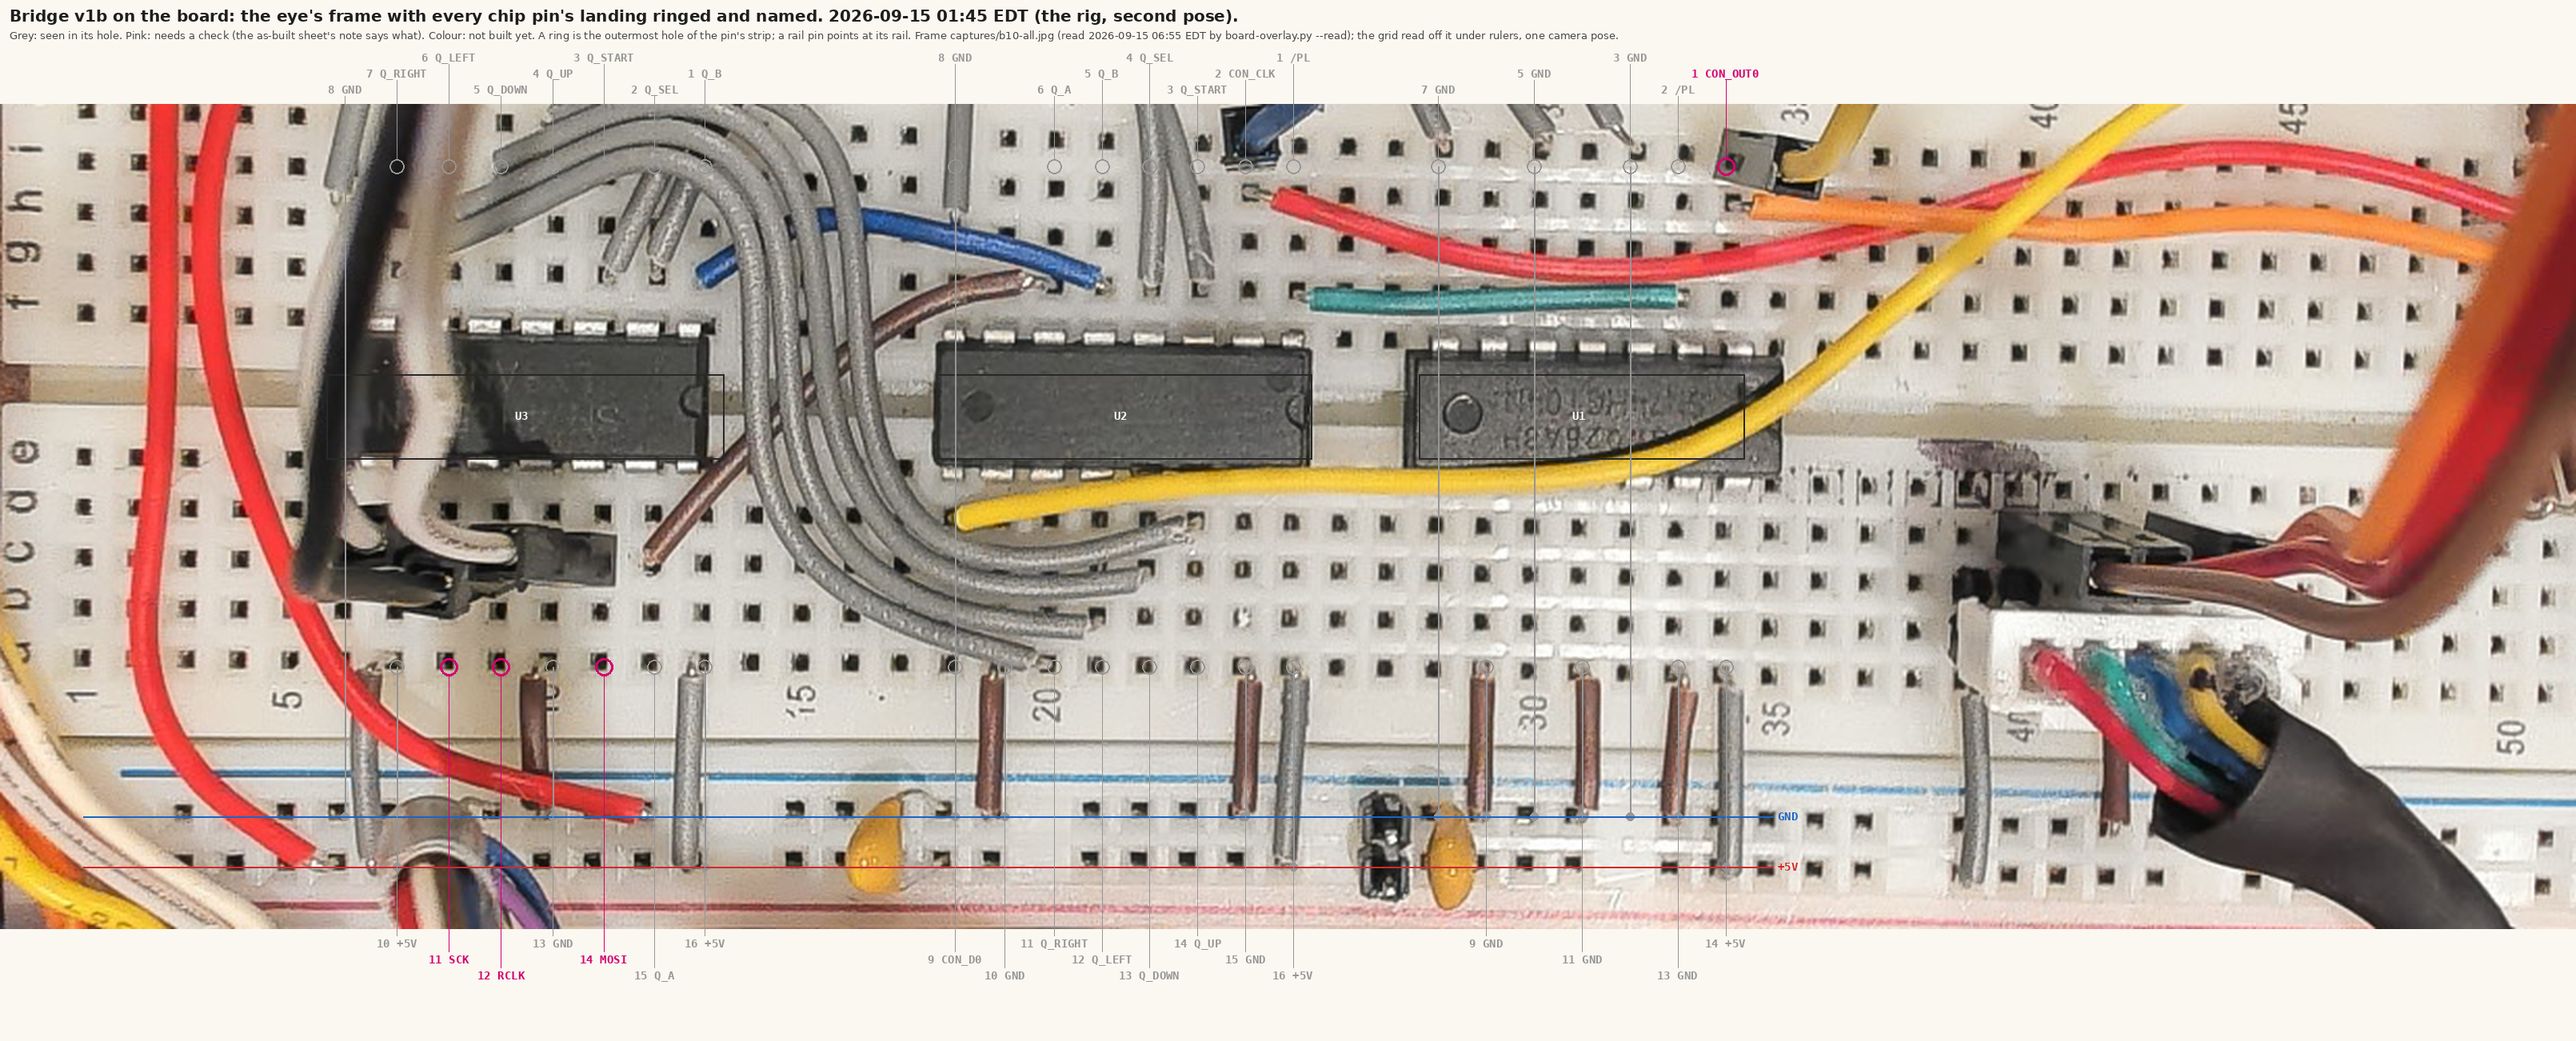
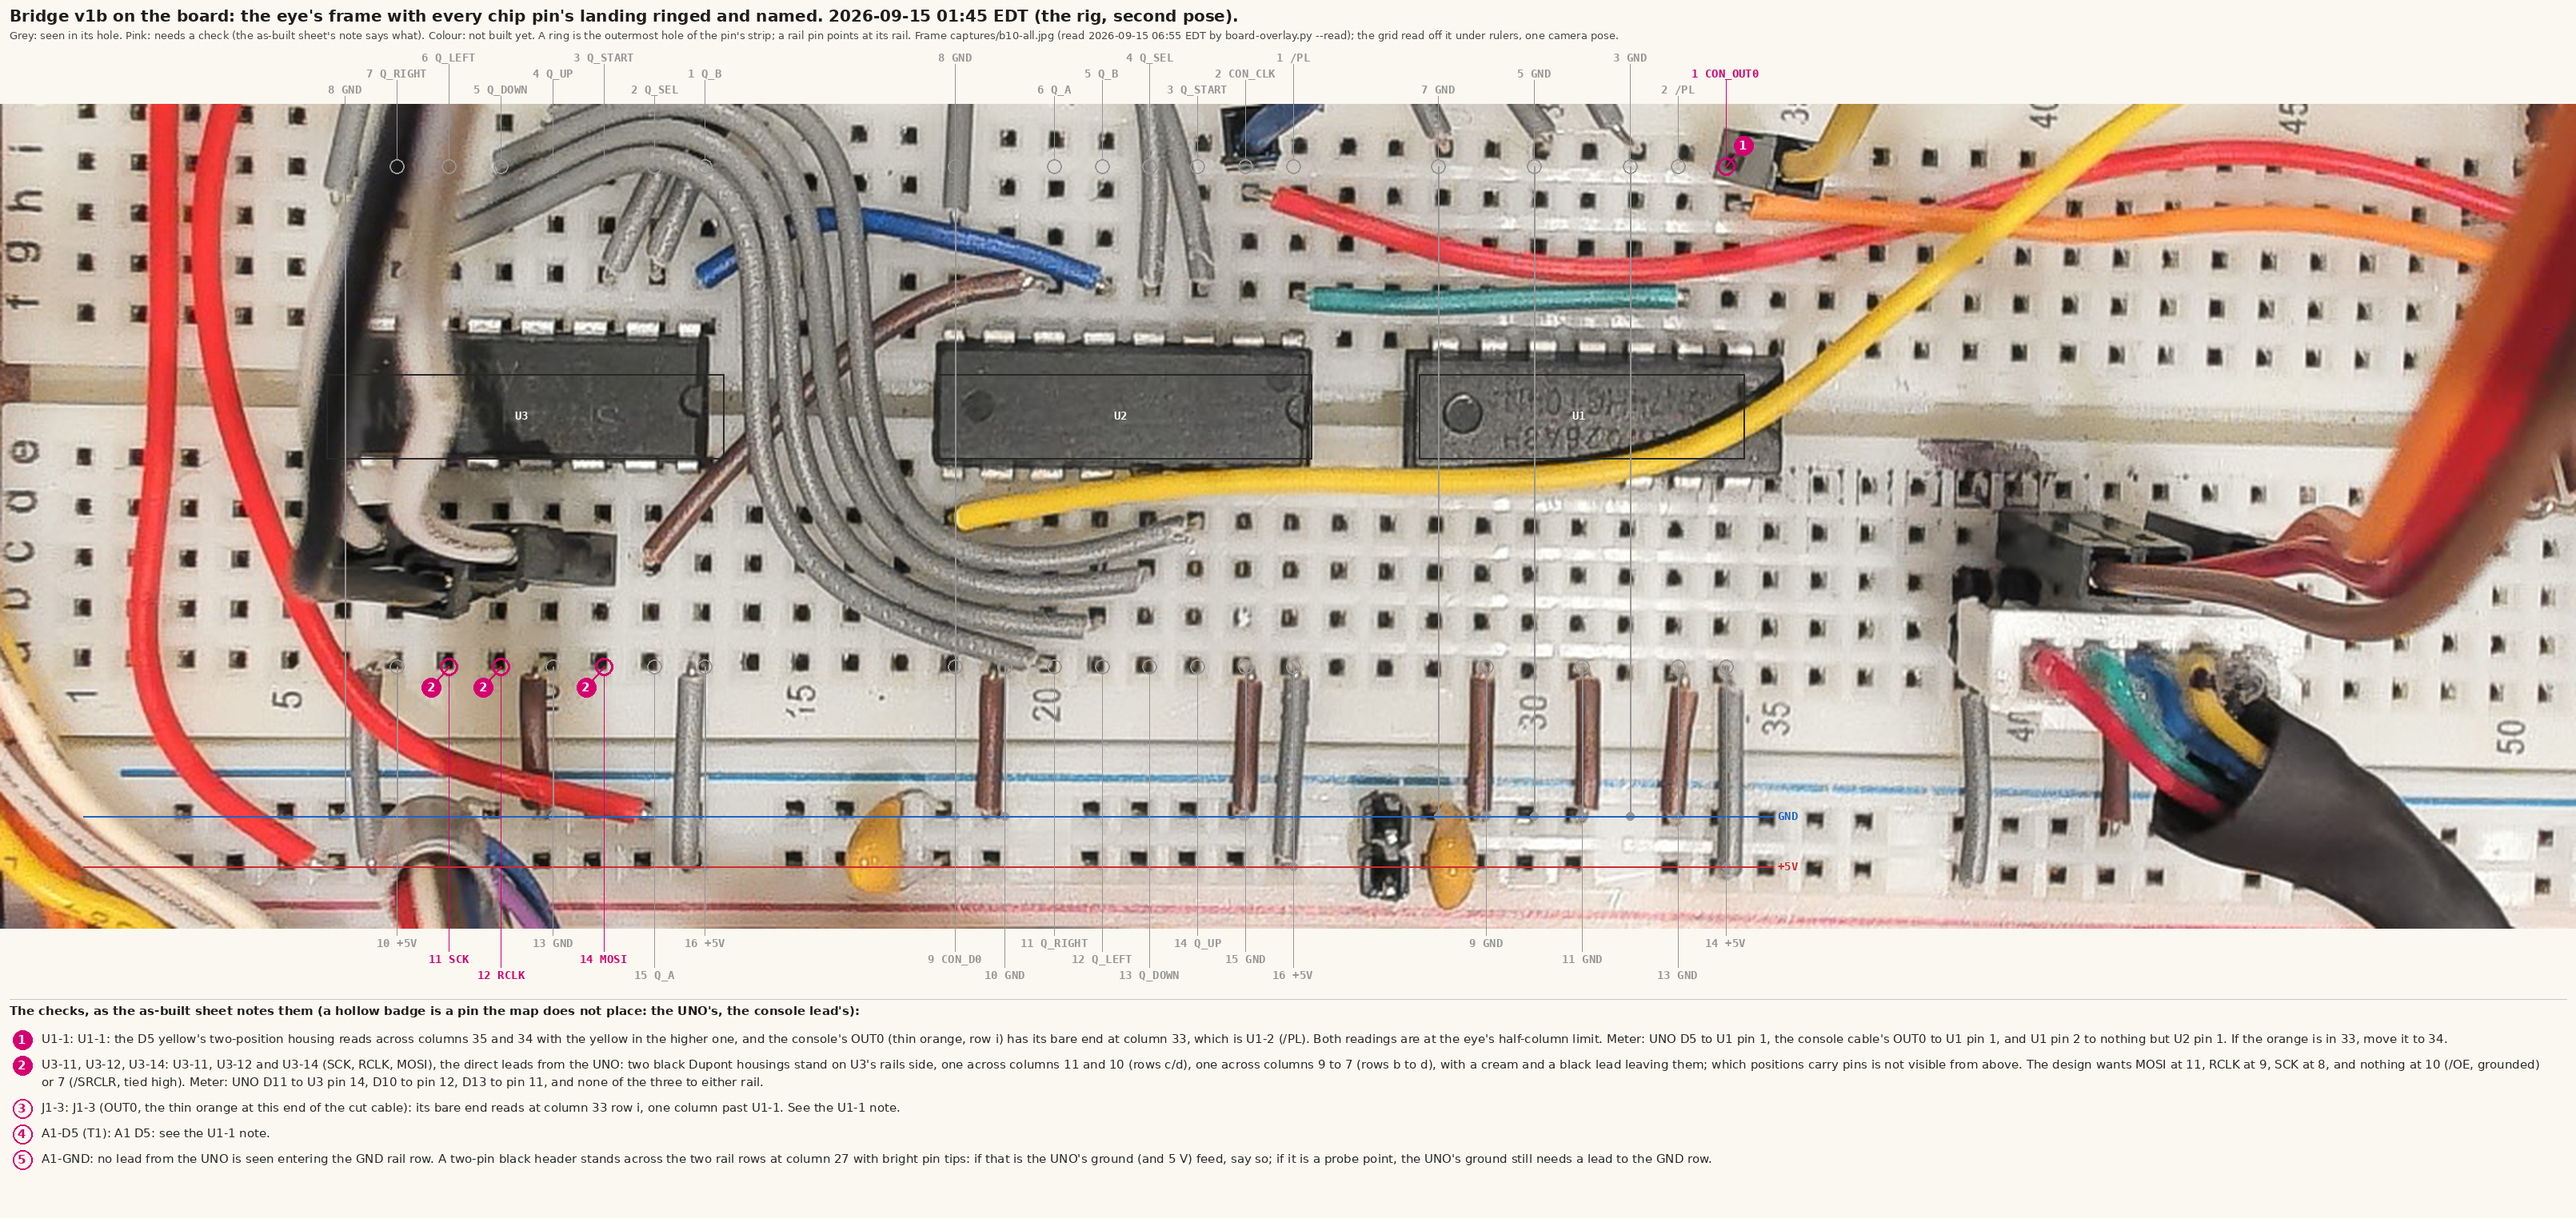
The junction overlay calls out every check by number, the sheet's notes set below the photograph
Claude-Session: https://claude.ai/code/session_01BdJ3NUxHSKQzEFUn9ViLv2

diff --git a/tools/board-overlay.py b/tools/board-overlay.py
@@ -1,7 +1,8 @@
 #!/usr/bin/env python3
 """The wiring drawn on the photograph: every chip pin's landing on the
 breadboard ringed and named with its net, coloured by the build's state,
-over the eye's frame of the board.
+over the eye's frame of the board, and every check called out by number
+with the sheet's note set below the photograph.
 
   python3 tools/board-overlay.py [frame.jpg] [--out docs/lab/board-junctions-v1b.png]
                                  [--status docs/build-status-v1b.json] [--map docs/board-map.json]
@@ -413,7 +414,48 @@ def main():
     # sat on a mirrored column, which the photograph made obvious at once.
     S = a.scale
     W, H = int((y1 - y0) * S), int((x1 - x0) * S)
-    canvas = Image.new("RGB", (W, H + 270), (250, 248, 240))
+    # The callouts: every pin the sheet marks as a check gets a number,
+    # one number per distinct note (a note that names two pins is one
+    # callout on both), and the notes are set below the photograph in
+    # that order, so the picture reads like the right-angle sheet.
+    notes, callout = [], {}
+    on_map = {f"{ref}.{p}" for ref, chip in m["chips"].items() for p in range(1, chip["pins"] + 1)}
+    checks = [(k, v) for k, v in status["pins"].items() if v.get("state") == "check"]
+    # the pins the picture rings first, so the badges count up from 1 on
+    # the board; a check on a pin the map does not place (the UNO, the
+    # console lead) is listed after them with a hollow badge
+    for key, v in sorted(checks, key=lambda kv: kv[0] not in on_map):
+        text = v.get("note", "")
+        if text not in notes:
+            notes.append(text)
+        callout[key] = notes.index(text) + 1
+    hollow = {n for n in range(1, len(notes) + 1) if not any(k in on_map for k, m_ in callout.items() if m_ == n)}
+    try:
+        note_font = ImageFont.truetype("/usr/share/fonts/truetype/dejavu/DejaVuSans.ttf", 15)
+        badge_font = ImageFont.truetype("/usr/share/fonts/truetype/dejavu/DejaVuSans-Bold.ttf", 15)
+    except OSError:
+        note_font = badge_font = ImageFont.load_default()
+
+    def wrap(text, width):
+        probe = ImageDraw.Draw(Image.new("RGB", (1, 1)))
+        lines, line = [], ""
+        for word in text.split():
+            trial = (line + " " + word).strip()
+            if probe.textlength(trial, font=note_font) > width and line:
+                lines.append(line)
+                line = word
+            else:
+                line = trial
+        if line:
+            lines.append(line)
+        return lines
+
+    note_lines = []
+    for i, text in enumerate(notes, 1):
+        pins_of = ", ".join(k.replace(".", "-") for k, n in callout.items() if n == i)
+        note_lines.append((i, wrap(f"{pins_of}: {text}", W - 80)))
+    panel = 40 + sum(22 * len(ls) + 10 for _, ls in note_lines) if note_lines else 0
+    canvas = Image.new("RGB", (W, H + 270 + panel), (250, 248, 240))
     rot = crop.rotate(-90, expand=True).resize((W, H), Image.LANCZOS)
     top_pad = 130
     canvas.paste(rot, (0, top_pad))
@@ -462,6 +504,15 @@ def main():
                 d.line([cx, cy, rx, ry], fill=c, width=2)
                 d.ellipse([rx - 5, ry - 5, rx + 5, ry + 5], fill=c)
             labels.append((cx, cy, f"{pin} {net}", c, side == "middle"))
+            n = callout.get(f"{ref}.{pin}")
+            if n:
+                # the badge sits off the ring toward the board's edge on its
+                # side, on a short leader, clear of the chip body
+                bx, by = cx + (22 if side == "middle" else -22), cy + (-26 if side == "middle" else 26)
+                d.line([cx, cy, bx, by], fill=PINK, width=2)
+                d.ellipse([bx - 12, by - 12, bx + 12, by + 12], fill=PINK)
+                w = d.textlength(str(n), font=badge_font)
+                d.text((bx - w / 2, by - 9), str(n), fill=(255, 255, 255), font=badge_font)
             placed += 1
     # rails
     for name in ("GND", "+5V"):
@@ -486,9 +537,25 @@ def main():
     d.text((12, 8), f"Bridge v1b on the board: the eye's frame with every chip pin's landing ringed and named. {status['read']}.", fill=(30, 30, 30), font=title)
     d.text((12, 36), "Grey: seen in its hole. Pink: needs a check (the as-built sheet's note says what). Colour: not built yet. A ring is the outermost hole of the pin's strip; a rail pin points at its rail. "
                      f"Frame {m['frame']}; the grid read off it under rulers, one camera pose.", fill=(70, 70, 70), font=small)
+    if note_lines:
+        y = top_pad + H + 100
+        d.line([12, y - 12, W - 12, y - 12], fill=(200, 200, 200), width=1)
+        d.text((12, y - 6), "The checks, as the as-built sheet notes them (a hollow badge is a pin the map does not place: the UNO's, the console lead's):", fill=(30, 30, 30), font=badge_font)
+        y += 26
+        for i, ls in note_lines:
+            if i in hollow:
+                d.ellipse([16, y + 1, 40, y + 25], outline=PINK, width=2)
+                d.text((28 - d.textlength(str(i), font=badge_font) / 2, y + 4), str(i), fill=PINK, font=badge_font)
+            else:
+                d.ellipse([16, y + 1, 40, y + 25], fill=PINK)
+                d.text((28 - d.textlength(str(i), font=badge_font) / 2, y + 4), str(i), fill=(255, 255, 255), font=badge_font)
+            for line in ls:
+                d.text((52, y + 3), line, fill=(40, 40, 40), font=note_font)
+                y += 22
+            y += 10
     Path(a.out).parent.mkdir(parents=True, exist_ok=True)
     canvas.save(a.out, optimize=True)
-    print(f"wrote {a.out}: {placed} pins over {len(m['chips'])} chips on the {board_name} board, {W}x{H + 270}")
+    print(f"wrote {a.out}: {placed} pins over {len(m['chips'])} chips on the {board_name} board, {len(notes)} callouts, {W}x{H + 270 + panel}")
 
 
 if __name__ == "__main__":
